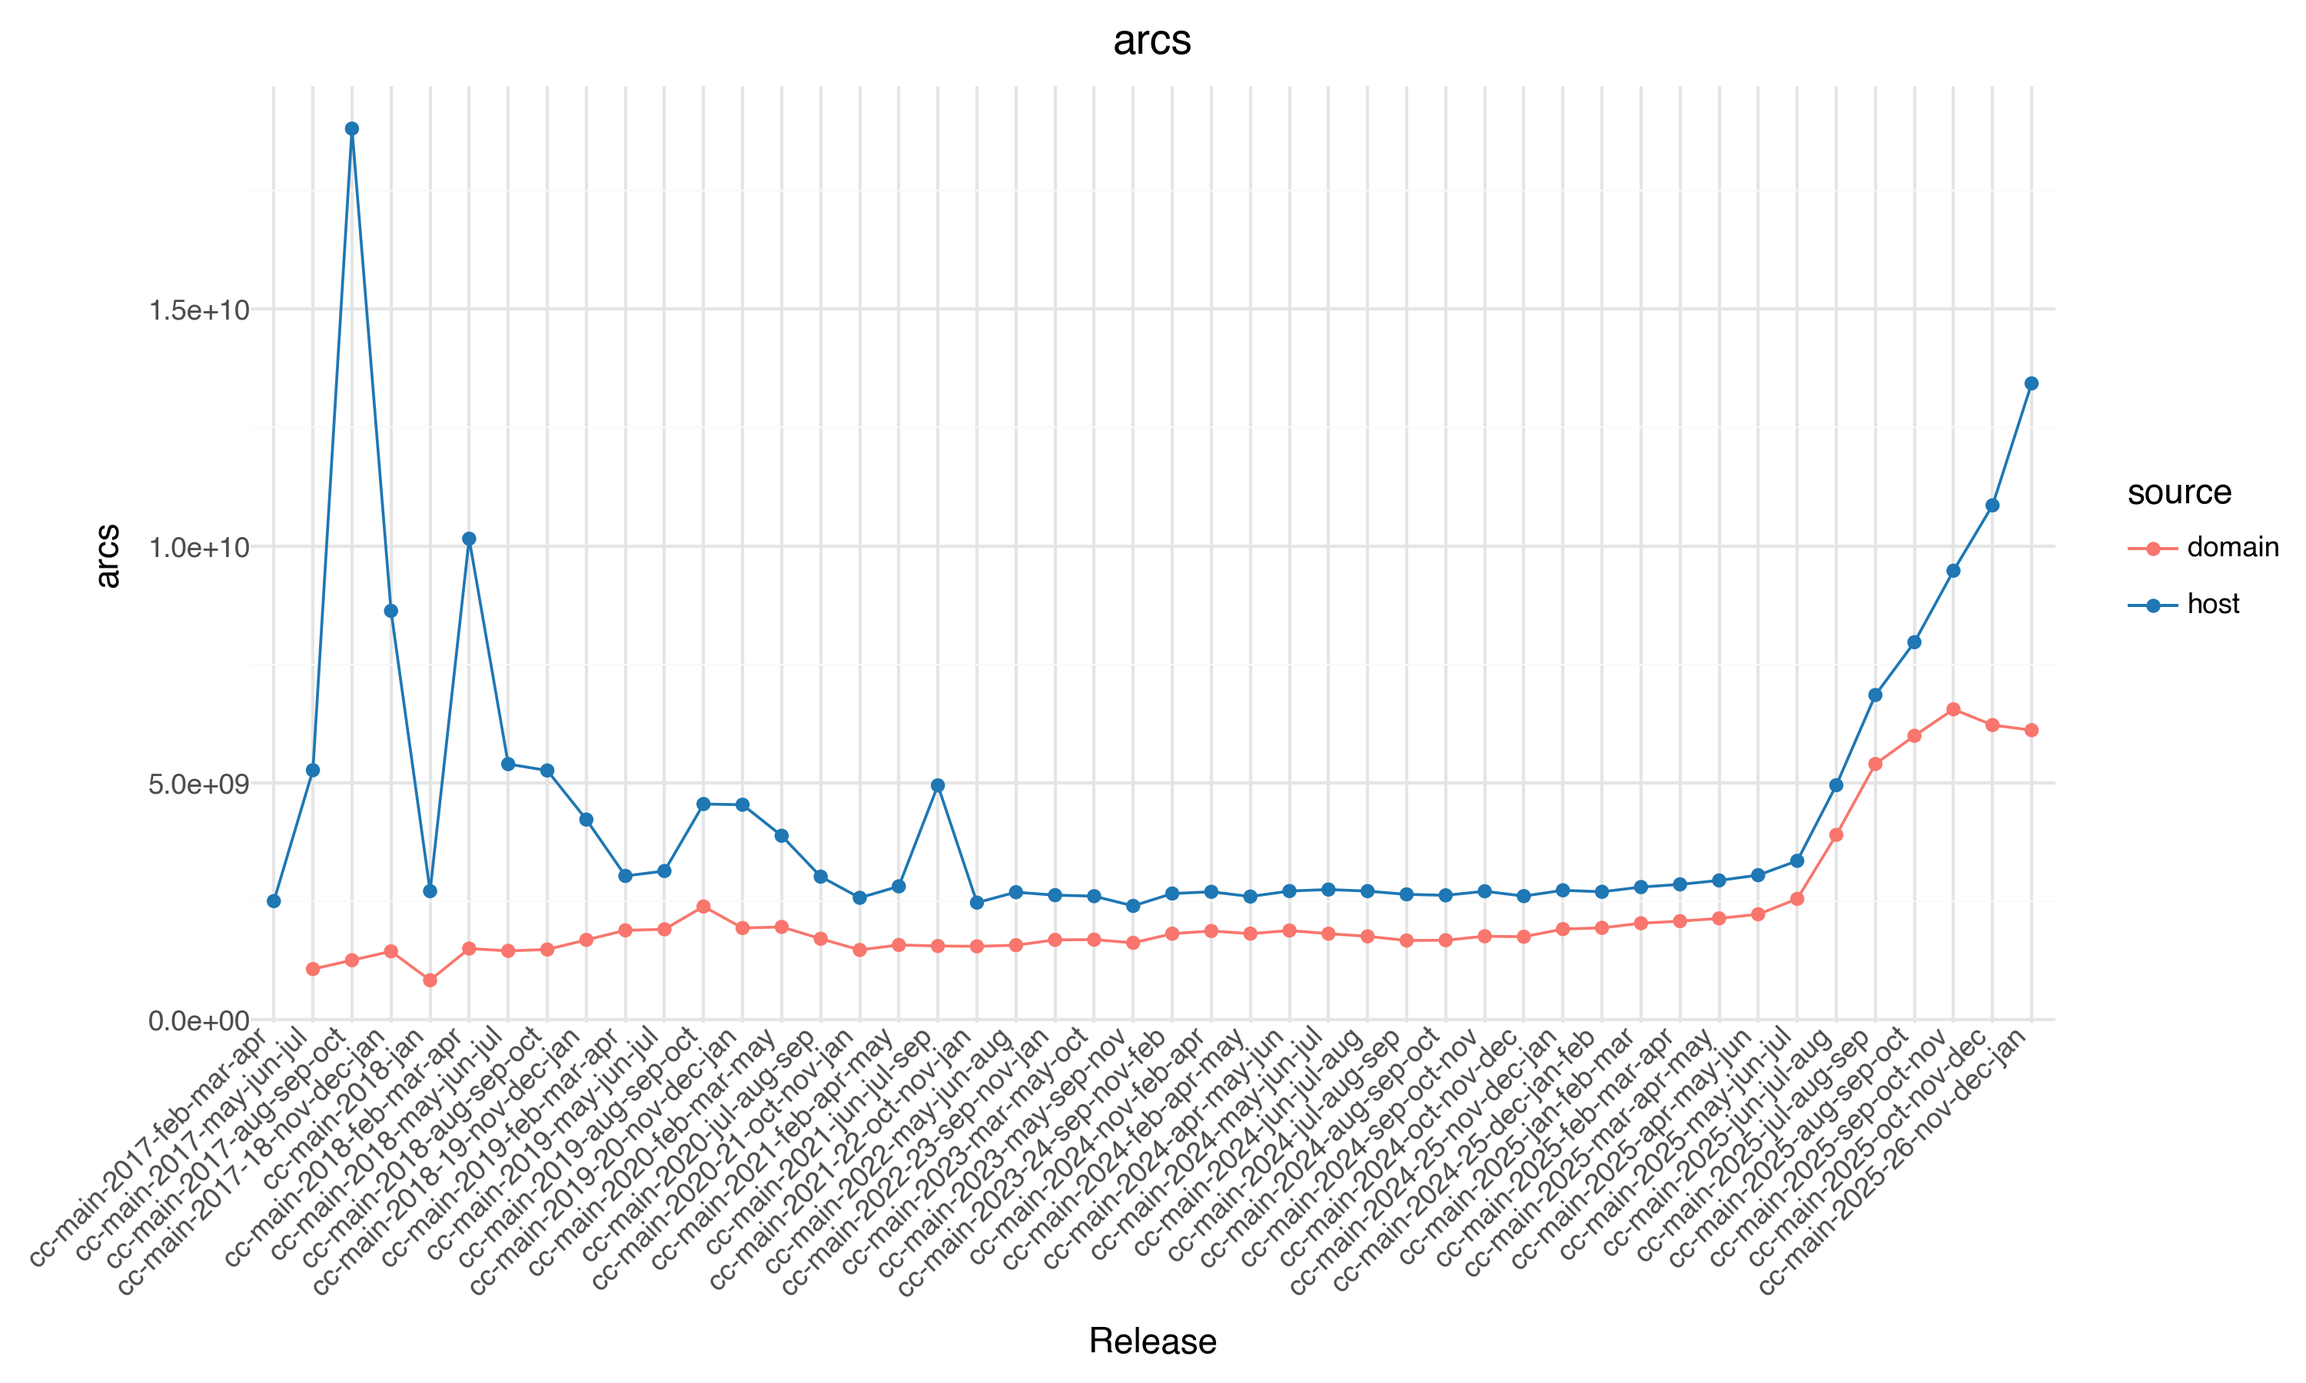
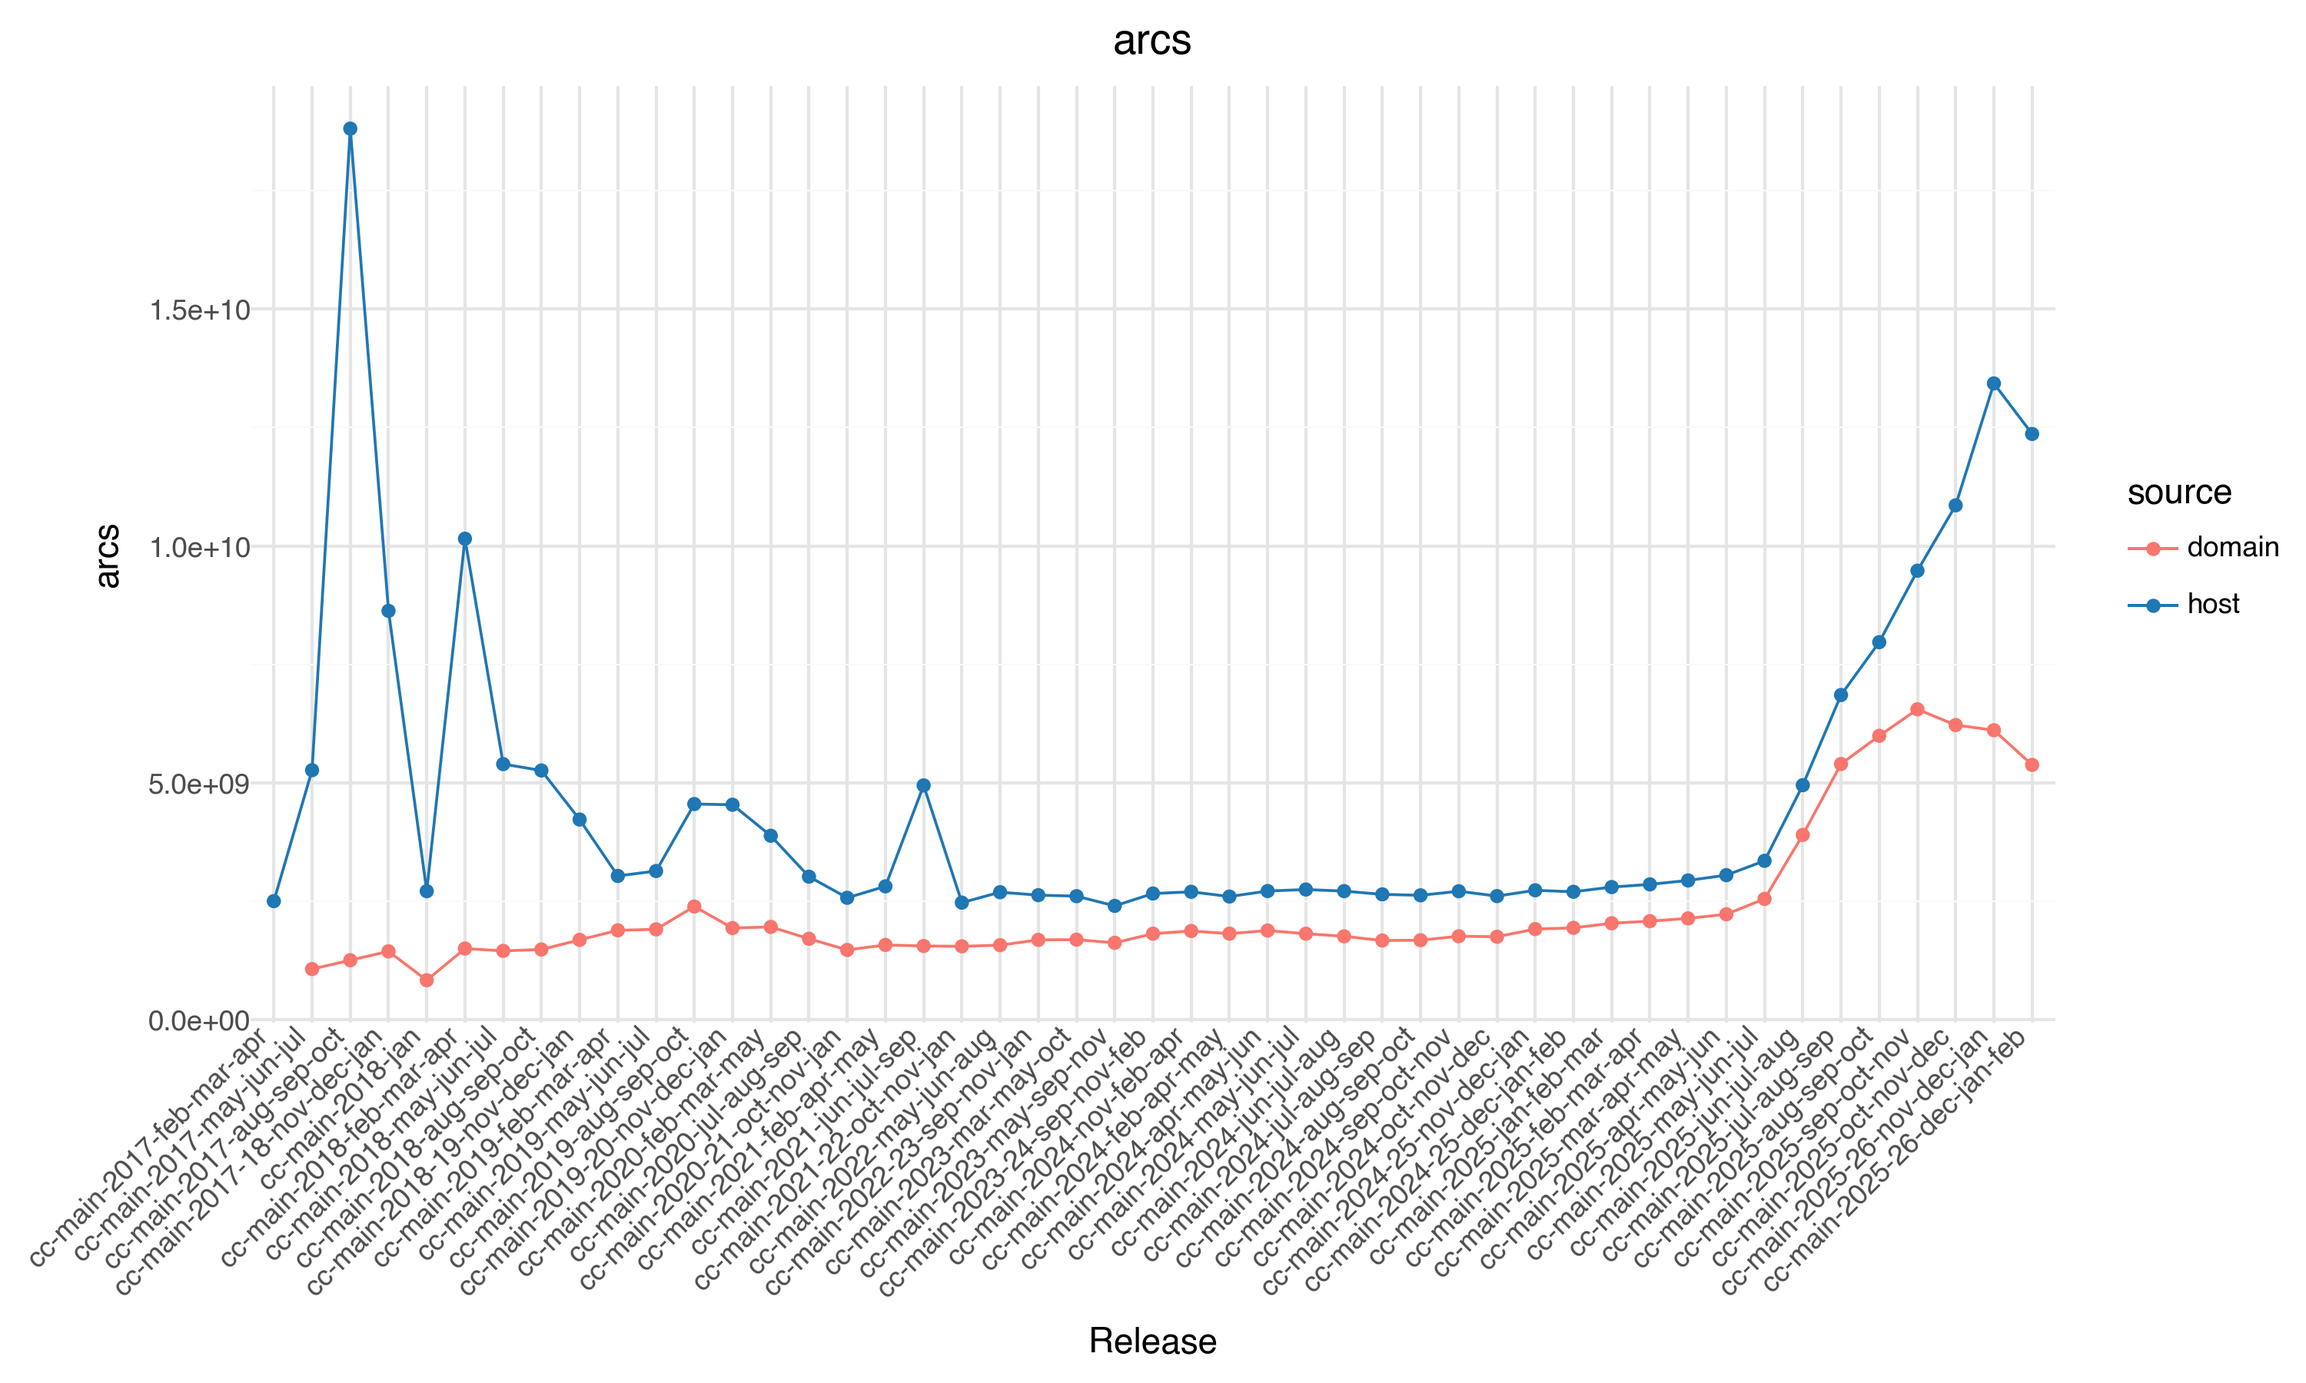
chore: update with data from latest release (cc-main-2025-26-dec-jan-feb)

Changed region(s): [[0.031, 0.0622, 0.899, 0.9333], [0.868, 0.5289, 0.899, 0.56]]

diff --git a/docs/index.html b/docs/index.html
@@ -900,9 +900,9 @@ document.addEventListener('DOMContentLoaded', () => {
     <div class="cc-hero-inner">
         <img class="full-width-image" src="img/masthead.webp" alt="decorative">
         <div class="update-info">
-            <span>Updated 2026-02-19</span>
+            <span>Updated 2026-02-24</span>
             <span class="update-sep"></span>
-            <span>Latest release: <a href="https://data.commoncrawl.org/projects/hyperlinkgraph/cc-main-2025-26-nov-dec-jan/index.html" target="_blank">cc-main-2025-26-nov-dec-jan</a></span>
+            <span>Latest release: <a href="https://data.commoncrawl.org/projects/hyperlinkgraph/cc-main-2025-26-dec-jan-feb/index.html" target="_blank">cc-main-2025-26-dec-jan-feb</a></span>
         </div>
     </div>
 </div>
@@ -917,7 +917,8 @@ document.addEventListener('DOMContentLoaded', () => {
 <p>The top ten highest ranked hosts and domains from each release are listed below. Ranks are derived from <a href="https://en.wikipedia.org/wiki/Centrality">Harmonic Centrality</a>, and we also show <a href="https://en.wikipedia.org/wiki/PageRank">PageRank</a> for comparison.</p>
         </div>
 <h2 id="Top-1000-Ranks">Top 1000 Ranks</h2><div class="dropdown"><div class="dropdown-label">Domain</div><div class="dropdown-controls"><select id="domain-release-dropdown">
-<option value="">Choose a release...</option><option value="domain-cc-main-2025-26-nov-dec-jan">cc-main-2025-26-nov-dec-jan</option>
+<option value="">Choose a release...</option><option value="domain-cc-main-2025-26-dec-jan-feb">cc-main-2025-26-dec-jan-feb</option>
+<option value="domain-cc-main-2025-26-nov-dec-jan">cc-main-2025-26-nov-dec-jan</option>
 <option value="domain-cc-main-2025-oct-nov-dec">cc-main-2025-oct-nov-dec</option>
 <option value="domain-cc-main-2025-sep-oct-nov">cc-main-2025-sep-oct-nov</option>
 <option value="domain-cc-main-2025-aug-sep-oct">cc-main-2025-aug-sep-oct</option>
@@ -965,7 +966,8 @@ document.addEventListener('DOMContentLoaded', () => {
 <option value="domain-cc-main-2017-feb-mar-apr">cc-main-2017-feb-mar-apr</option>
 </select></div><div class="dropdown-content active" id="table-container-domain"><p class="placeholder-msg">Select a release to view ranks.</p></div></div>
 <div class="dropdown"><div class="dropdown-label">Host</div><div class="dropdown-controls"><select id="host-release-dropdown">
-<option value="">Choose a release...</option><option value="host-cc-main-2025-26-nov-dec-jan">cc-main-2025-26-nov-dec-jan</option>
+<option value="">Choose a release...</option><option value="host-cc-main-2025-26-dec-jan-feb">cc-main-2025-26-dec-jan-feb</option>
+<option value="host-cc-main-2025-26-nov-dec-jan">cc-main-2025-26-nov-dec-jan</option>
 <option value="host-cc-main-2025-oct-nov-dec">cc-main-2025-oct-nov-dec</option>
 <option value="host-cc-main-2025-sep-oct-nov">cc-main-2025-sep-oct-nov</option>
 <option value="host-cc-main-2025-aug-sep-oct">cc-main-2025-aug-sep-oct</option>
@@ -1060,8 +1062,8 @@ curl -s https://data.commoncrawl.org/projects/hyperlinkgraph/$RELEASE/ \
             <h4 id="nodes">
                 <a href="#nodes">nodes</a>
             </h4>
-            <a href="./plots/nodes.png?version=cc-main-2025-26-nov-dec-jan" target="_blank">
-                <img src="./plots/nodes.png?version=cc-main-2025-26-nov-dec-jan" alt="nodes Plot">
+            <a href="./plots/nodes.png?version=cc-main-2025-26-dec-jan-feb" target="_blank">
+                <img src="./plots/nodes.png?version=cc-main-2025-26-dec-jan-feb" alt="nodes Plot">
             </a>
             <p>The total number of unique nodes (e.g., domains, hosts, or pages) in the graph. Each node represents an entity in the web graph.</p>
         </div>
@@ -1070,8 +1072,8 @@ curl -s https://data.commoncrawl.org/projects/hyperlinkgraph/$RELEASE/ \
             <h4 id="arcs">
                 <a href="#arcs">arcs</a>
             </h4>
-            <a href="./plots/arcs.png?version=cc-main-2025-26-nov-dec-jan" target="_blank">
-                <img src="./plots/arcs.png?version=cc-main-2025-26-nov-dec-jan" alt="arcs Plot">
+            <a href="./plots/arcs.png?version=cc-main-2025-26-dec-jan-feb" target="_blank">
+                <img src="./plots/arcs.png?version=cc-main-2025-26-dec-jan-feb" alt="arcs Plot">
             </a>
             <p>The total number of directed edges (or arcs) in the graph, representing links between nodes.</p>
         </div>
@@ -1080,8 +1082,8 @@ curl -s https://data.commoncrawl.org/projects/hyperlinkgraph/$RELEASE/ \
             <h4 id="successoravggap">
                 <a href="#successoravggap">successoravggap</a>
             </h4>
-            <a href="./plots/successoravggap.png?version=cc-main-2025-26-nov-dec-jan" target="_blank">
-                <img src="./plots/successoravggap.png?version=cc-main-2025-26-nov-dec-jan" alt="successoravggap Plot">
+            <a href="./plots/successoravggap.png?version=cc-main-2025-26-dec-jan-feb" target="_blank">
+                <img src="./plots/successoravggap.png?version=cc-main-2025-26-dec-jan-feb" alt="successoravggap Plot">
             </a>
             <p>The average gap between successive nodes in the adjacency list of the graph. This reflects the ordering and clustering of nodes in the graph.</p>
         </div>
@@ -1090,8 +1092,8 @@ curl -s https://data.commoncrawl.org/projects/hyperlinkgraph/$RELEASE/ \
             <h4 id="avglocality">
                 <a href="#avglocality">avglocality</a>
             </h4>
-            <a href="./plots/avglocality.png?version=cc-main-2025-26-nov-dec-jan" target="_blank">
-                <img src="./plots/avglocality.png?version=cc-main-2025-26-nov-dec-jan" alt="avglocality Plot">
+            <a href="./plots/avglocality.png?version=cc-main-2025-26-dec-jan-feb" target="_blank">
+                <img src="./plots/avglocality.png?version=cc-main-2025-26-dec-jan-feb" alt="avglocality Plot">
             </a>
             <p>A measure of the locality of edges in the graph, indicating how closely related the linked nodes are in terms of graph structure.</p>
         </div>
@@ -1100,8 +1102,8 @@ curl -s https://data.commoncrawl.org/projects/hyperlinkgraph/$RELEASE/ \
             <h4 id="maxoutdegree">
                 <a href="#maxoutdegree">maxoutdegree</a>
             </h4>
-            <a href="./plots/maxoutdegree.png?version=cc-main-2025-26-nov-dec-jan" target="_blank">
-                <img src="./plots/maxoutdegree.png?version=cc-main-2025-26-nov-dec-jan" alt="maxoutdegree Plot">
+            <a href="./plots/maxoutdegree.png?version=cc-main-2025-26-dec-jan-feb" target="_blank">
+                <img src="./plots/maxoutdegree.png?version=cc-main-2025-26-dec-jan-feb" alt="maxoutdegree Plot">
             </a>
             <p>The highest number of outgoing edges (links) from a single node in the graph. This identifies the most connected node in terms of outlinks.</p>
         </div>
@@ -1110,8 +1112,8 @@ curl -s https://data.commoncrawl.org/projects/hyperlinkgraph/$RELEASE/ \
             <h4 id="dangling">
                 <a href="#dangling">dangling</a>
             </h4>
-            <a href="./plots/dangling.png?version=cc-main-2025-26-nov-dec-jan" target="_blank">
-                <img src="./plots/dangling.png?version=cc-main-2025-26-nov-dec-jan" alt="dangling Plot">
+            <a href="./plots/dangling.png?version=cc-main-2025-26-dec-jan-feb" target="_blank">
+                <img src="./plots/dangling.png?version=cc-main-2025-26-dec-jan-feb" alt="dangling Plot">
             </a>
             <p>The total number of dangling nodes in the graph, which are nodes (vertices) with zero outgoing edges (arcs).</p>
         </div>
@@ -1120,8 +1122,8 @@ curl -s https://data.commoncrawl.org/projects/hyperlinkgraph/$RELEASE/ \
             <h4 id="percdangling">
                 <a href="#percdangling">percdangling</a>
             </h4>
-            <a href="./plots/percdangling.png?version=cc-main-2025-26-nov-dec-jan" target="_blank">
-                <img src="./plots/percdangling.png?version=cc-main-2025-26-nov-dec-jan" alt="percdangling Plot">
+            <a href="./plots/percdangling.png?version=cc-main-2025-26-dec-jan-feb" target="_blank">
+                <img src="./plots/percdangling.png?version=cc-main-2025-26-dec-jan-feb" alt="percdangling Plot">
             </a>
             <p>The percentage of nodes in the graph that are dangling nodes (see above).</p>
         </div>
@@ -1130,8 +1132,8 @@ curl -s https://data.commoncrawl.org/projects/hyperlinkgraph/$RELEASE/ \
             <h4 id="avgoutdegree">
                 <a href="#avgoutdegree">avgoutdegree</a>
             </h4>
-            <a href="./plots/avgoutdegree.png?version=cc-main-2025-26-nov-dec-jan" target="_blank">
-                <img src="./plots/avgoutdegree.png?version=cc-main-2025-26-nov-dec-jan" alt="avgoutdegree Plot">
+            <a href="./plots/avgoutdegree.png?version=cc-main-2025-26-dec-jan-feb" target="_blank">
+                <img src="./plots/avgoutdegree.png?version=cc-main-2025-26-dec-jan-feb" alt="avgoutdegree Plot">
             </a>
             <p>The average number of outgoing edges per node. This provides an overview of the graph's overall connectivity.</p>
         </div>
@@ -1140,8 +1142,8 @@ curl -s https://data.commoncrawl.org/projects/hyperlinkgraph/$RELEASE/ \
             <h4 id="successoravglogdelta">
                 <a href="#successoravglogdelta">successoravglogdelta</a>
             </h4>
-            <a href="./plots/successoravglogdelta.png?version=cc-main-2025-26-nov-dec-jan" target="_blank">
-                <img src="./plots/successoravglogdelta.png?version=cc-main-2025-26-nov-dec-jan" alt="successoravglogdelta Plot">
+            <a href="./plots/successoravglogdelta.png?version=cc-main-2025-26-dec-jan-feb" target="_blank">
+                <img src="./plots/successoravglogdelta.png?version=cc-main-2025-26-dec-jan-feb" alt="successoravglogdelta Plot">
             </a>
             <p>The average logarithmic difference between successive node IDs in the adjacency list. This reflects the dispersion of node IDs in the graph structure.</p>
         </div>
@@ -1150,8 +1152,8 @@ curl -s https://data.commoncrawl.org/projects/hyperlinkgraph/$RELEASE/ \
             <h4 id="maxindegree">
                 <a href="#maxindegree">maxindegree</a>
             </h4>
-            <a href="./plots/maxindegree.png?version=cc-main-2025-26-nov-dec-jan" target="_blank">
-                <img src="./plots/maxindegree.png?version=cc-main-2025-26-nov-dec-jan" alt="maxindegree Plot">
+            <a href="./plots/maxindegree.png?version=cc-main-2025-26-dec-jan-feb" target="_blank">
+                <img src="./plots/maxindegree.png?version=cc-main-2025-26-dec-jan-feb" alt="maxindegree Plot">
             </a>
             <p>The highest number of incoming edges (links) to a single node in the graph. It identifies the most referenced or linked-to node.</p>
         </div>
@@ -1160,8 +1162,8 @@ curl -s https://data.commoncrawl.org/projects/hyperlinkgraph/$RELEASE/ \
             <h4 id="avgindegree">
                 <a href="#avgindegree">avgindegree</a>
             </h4>
-            <a href="./plots/avgindegree.png?version=cc-main-2025-26-nov-dec-jan" target="_blank">
-                <img src="./plots/avgindegree.png?version=cc-main-2025-26-nov-dec-jan" alt="avgindegree Plot">
+            <a href="./plots/avgindegree.png?version=cc-main-2025-26-dec-jan-feb" target="_blank">
+                <img src="./plots/avgindegree.png?version=cc-main-2025-26-dec-jan-feb" alt="avgindegree Plot">
             </a>
             <p>The average number of incoming edges per node. This is equal to avgoutdegree in a balanced directed graph.</p>
         </div>
@@ -1170,8 +1172,8 @@ curl -s https://data.commoncrawl.org/projects/hyperlinkgraph/$RELEASE/ \
             <h4 id="sccs">
                 <a href="#sccs">sccs</a>
             </h4>
-            <a href="./plots/sccs.png?version=cc-main-2025-26-nov-dec-jan" target="_blank">
-                <img src="./plots/sccs.png?version=cc-main-2025-26-nov-dec-jan" alt="sccs Plot">
+            <a href="./plots/sccs.png?version=cc-main-2025-26-dec-jan-feb" target="_blank">
+                <img src="./plots/sccs.png?version=cc-main-2025-26-dec-jan-feb" alt="sccs Plot">
             </a>
             <p>The total number of strongly connected components (SCCs) in the graph. SCCs are subgraphs in which every node is reachable from every other node within the subgraph.</p>
         </div>
@@ -1180,8 +1182,8 @@ curl -s https://data.commoncrawl.org/projects/hyperlinkgraph/$RELEASE/ \
             <h4 id="maxsccsize">
                 <a href="#maxsccsize">maxsccsize</a>
             </h4>
-            <a href="./plots/maxsccsize.png?version=cc-main-2025-26-nov-dec-jan" target="_blank">
-                <img src="./plots/maxsccsize.png?version=cc-main-2025-26-nov-dec-jan" alt="maxsccsize Plot">
+            <a href="./plots/maxsccsize.png?version=cc-main-2025-26-dec-jan-feb" target="_blank">
+                <img src="./plots/maxsccsize.png?version=cc-main-2025-26-dec-jan-feb" alt="maxsccsize Plot">
             </a>
             <p>The size (number of nodes) of the largest strongly connected component (SCC) in the graph. This indicates the largest cluster of nodes that are mutually reachable.</p>
         </div>
@@ -1190,8 +1192,8 @@ curl -s https://data.commoncrawl.org/projects/hyperlinkgraph/$RELEASE/ \
             <h4 id="percmaxscc">
                 <a href="#percmaxscc">percmaxscc</a>
             </h4>
-            <a href="./plots/percmaxscc.png?version=cc-main-2025-26-nov-dec-jan" target="_blank">
-                <img src="./plots/percmaxscc.png?version=cc-main-2025-26-nov-dec-jan" alt="percmaxscc Plot">
+            <a href="./plots/percmaxscc.png?version=cc-main-2025-26-dec-jan-feb" target="_blank">
+                <img src="./plots/percmaxscc.png?version=cc-main-2025-26-dec-jan-feb" alt="percmaxscc Plot">
             </a>
             <p>The percentage of nodes in the graph that belong to the largest strongly connected component (SCC). It shows how dominant the largest SCC is in the overall graph.</p>
         </div>
@@ -1200,8 +1202,8 @@ curl -s https://data.commoncrawl.org/projects/hyperlinkgraph/$RELEASE/ \
             <h4 id="percminscc">
                 <a href="#percminscc">percminscc</a>
             </h4>
-            <a href="./plots/percminscc.png?version=cc-main-2025-26-nov-dec-jan" target="_blank">
-                <img src="./plots/percminscc.png?version=cc-main-2025-26-nov-dec-jan" alt="percminscc Plot">
+            <a href="./plots/percminscc.png?version=cc-main-2025-26-dec-jan-feb" target="_blank">
+                <img src="./plots/percminscc.png?version=cc-main-2025-26-dec-jan-feb" alt="percminscc Plot">
             </a>
             <p>The percentage of nodes in the graph that belong to the smallest strongly connected components (SCCs) (typically isolated nodes or trivial SCCs). This indicates the prevalence of disconnected or minimally connected components.</p>
         </div>
